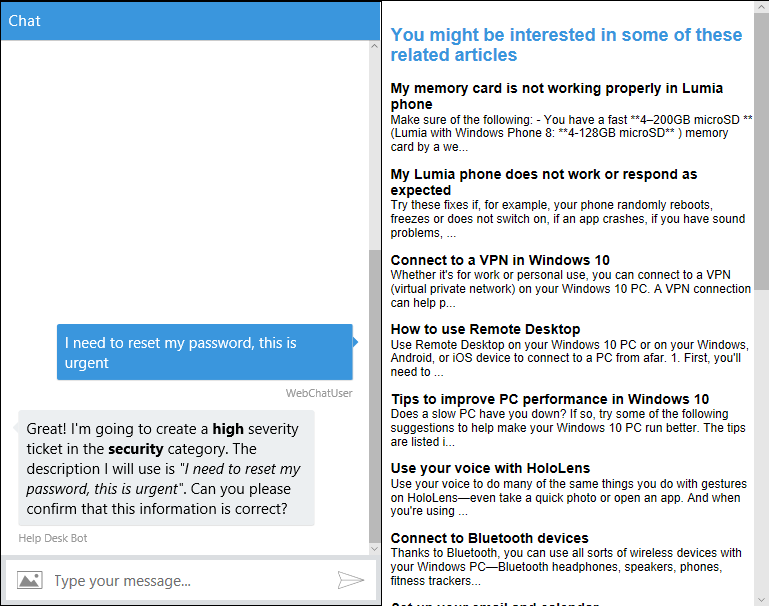
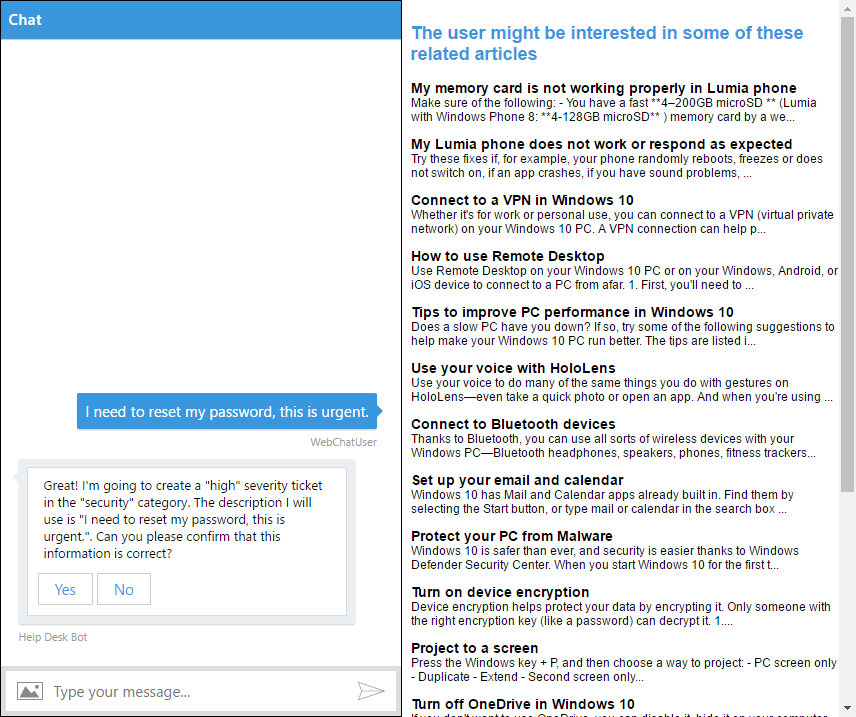
Update screenshots image.

Changed region(s): [[0.0, 0.0, 1.0, 1.0]]

diff --git a/CSharp/exercise2-TicketSubmissionDialog.md b/CSharp/exercise2-TicketSubmissionDialog.md
@@ -92,8 +92,8 @@ In this task you are going to add more message handlers to the bot code to promp
     public async Task CategoryMessageReceivedAsync(IDialogContext context, IAwaitable<string> argument)
     {
         this.category = await argument;
-        var text = $"Great! I'm going to create a _\"{this.severity}\"_ severity ticket in the _\"{this.category}\"_ category. " +
-                    $"The description I will use is _\"{this.description}\"_. Can you please confirm that this information is correct?";
+        var text = $"Great! I'm going to create a \"{this.severity}\" severity ticket in the \"{this.category}\" category. " +
+                    $"The description I will use is \"{this.description}\". Can you please confirm that this information is correct?";
 
         PromptDialog.Confirm(context, this.IssueConfirmedMessageReceivedAsync, text);
     }
